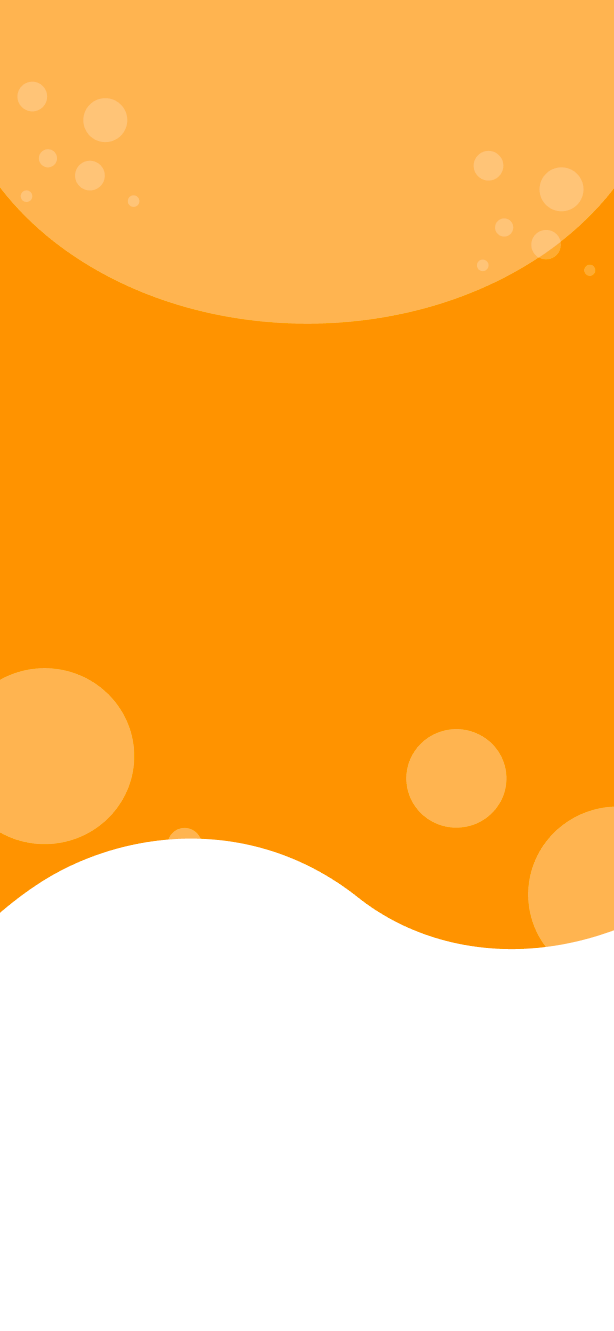
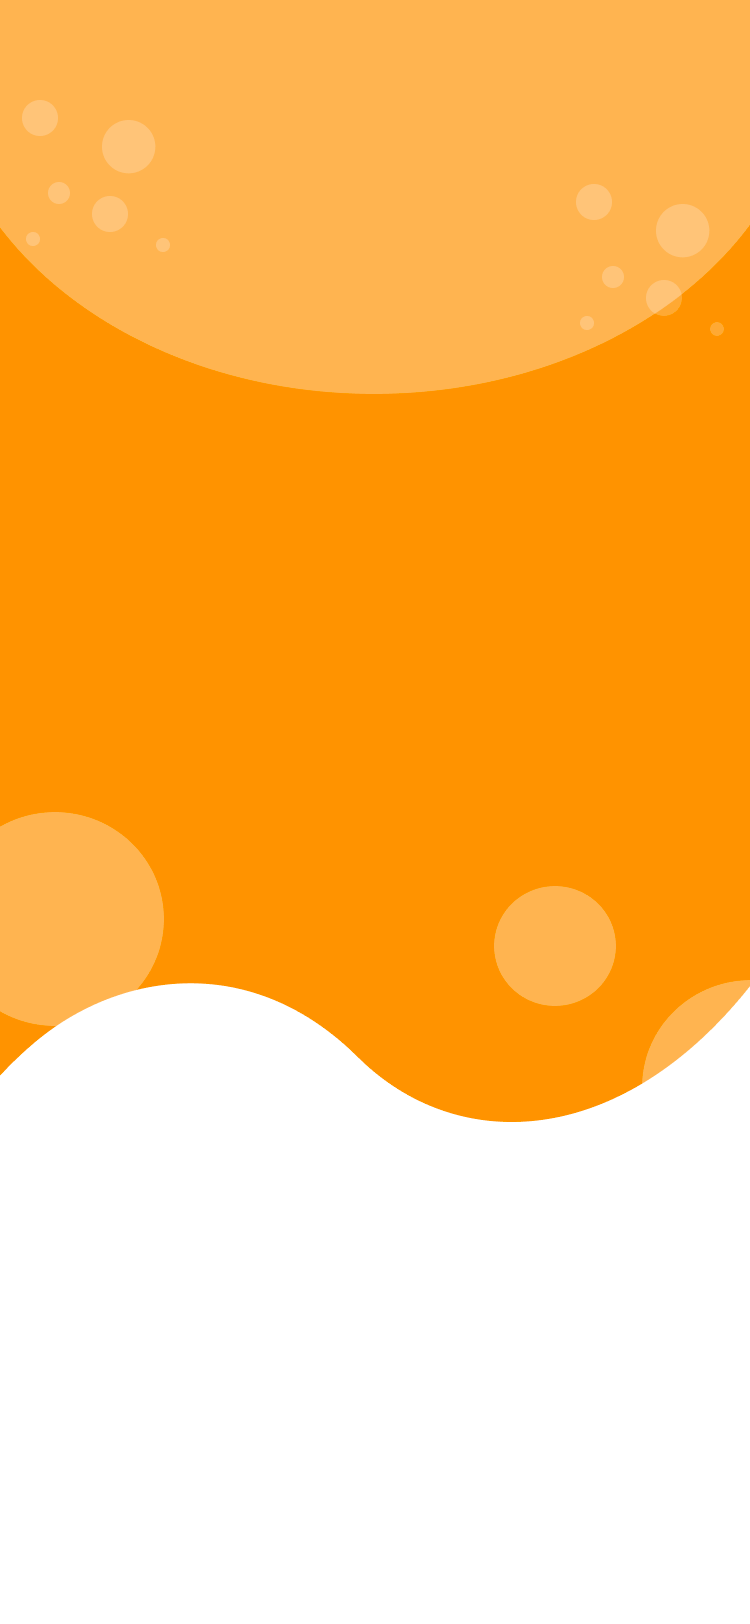
Habillage register screen OK

diff --git a/screens/RegisterScreen.js b/screens/RegisterScreen.js
@@ -7,16 +7,20 @@ import {
   StyleSheet,
   SafeAreaView,
   Image,
+  ImageBackground,
 } from "react-native";
 
 // Import components
 import InputText from "../components/atoms/InputText";
 import InputEmail from "../components/atoms/InputEmail";
 import InputPassword from "../components/atoms/InputPassword";
+import BtForm from "../components/atoms/BtForm";
 
-// Colors:
+// Colors and styles:
 import colors from "../assets/colors";
 const { purplePrimary, grey } = colors;
+import { genStyles } from "../styles/genStyles";
+import { registerScreenStyle } from "../styles/registerScreenStyles";
 
 // Constant pour récupérer las dimensions des devices
 import Constants from "expo-constants";
@@ -91,159 +95,78 @@ export default function RegisterScreen({ url, setUserDatas }) {
 
   return (
     <KeyboardAwareScrollView>
-      <SafeAreaView style={styles.container}>
-        <View style={styles.logoZone}>
-          {/*           <Image
-            source={require("../assets/img/logo.png")}
-            style={styles.logoSign}
-          /> */}
-          <Text style={styles.signTitle}>Inscription </Text>
-          <Text style={styles.subTitle}>
-            Créez votre compte pour pouvoir chatter avec les “babblers”.
-          </Text>
-          <Text style={styles.subTitle}>
-            Vous pourrez modifier votre avatar par la suite.
-          </Text>
-        </View>
-        <View style={styles.formContent}>
-          <Image
-            source={require("../assets/img/avatar-default.jpg")}
-            style={styles.avatar}
-          />
-          <View style={styles.inputContent}>
-            <InputText
-              placeholder="Prénom"
-              value={firstname}
-              setValue={setFirstname}
+      <SafeAreaView style={registerScreenStyle.container}>
+        <ImageBackground
+          source={require("../assets/img/fond-bulles-violet.png")}
+          style={registerScreenStyle.bgImage}
+        >
+          <View style={registerScreenStyle.avatarZone}>
+            <Image
+              source={require("../assets/img/avatar-defaut.png")}
+              style={registerScreenStyle.avatar}
             />
-            <InputText
-              placeholder="Nom"
-              value={lastname}
-              setValue={setLastname}
-            />
-            <InputEmail placeholder="email" value={email} setValue={setEmail} />
-            <InputPassword placeholder="Mot de passe" setValue={setPassword} />
-            <InputPassword
-              placeholder="Confirmez votre mot de passe"
-              setValue={setConfirmPassword}
-            />
-          </View>
-          <View style={styles.buttonsContent}>
-            <Text style={styles.msgAlert}>{alert}</Text>
-            <TouchableOpacity
-              style={styles.button}
-              disabled={false}
-              onPress={handleSubmit}
+            <Text
+              style={[
+                genStyles.basicClearText,
+                genStyles.textAlignCenter,
+                genStyles.textContainerWidth,
+              ]}
             >
-              <Text style={styles.txtButton}>Créer votre compte</Text>
-            </TouchableOpacity>
-            <TouchableOpacity
-              style={styles.txtLink}
-              onPress={() => {
-                navigation.navigate("Login");
-              }}
-            >
-              <Text>Already have an account? Sign in</Text>
-            </TouchableOpacity>
+              Créez votre compte pour pouvoir chatter avec les “babblers”. Vous
+              pourrez modifier votre avatar plus tard.
+            </Text>
           </View>
-        </View>
+          <View style={genStyles.formContent}>
+            <View style={genStyles.inputContent}>
+              <InputText
+                placeholder="Prénom"
+                value={firstname}
+                setValue={setFirstname}
+              />
+              <InputText
+                placeholder="Nom"
+                value={lastname}
+                setValue={setLastname}
+              />
+              <InputEmail
+                placeholder="email"
+                value={email}
+                setValue={setEmail}
+              />
+              <InputPassword
+                placeholder="Mot de passe"
+                setValue={setPassword}
+              />
+              <InputPassword
+                placeholder="Confirmez votre mot de passe"
+                setValue={setConfirmPassword}
+              />
+            </View>
+            <View style={genStyles.buttonsContent}>
+              <Text style={genStyles.msgAlert}>{alert}</Text>
+              <BtForm
+                action={handleSubmit}
+                text={"Créer mon compte"}
+                colorStart={colors.purplePrimary}
+                colorEnd={colors.purpleSecondary}
+              />
+              <TouchableOpacity
+                style={genStyles.genCenter}
+                onPress={() => {
+                  navigation.navigate("Login");
+                }}
+              >
+                <Text style={genStyles.titlePurpleText}>
+                  J'ai déjà un compte !
+                </Text>
+                <Text style={genStyles.basicPurpleText}>
+                  Je me connecte ici.
+                </Text>
+              </TouchableOpacity>
+            </View>
+          </View>
+        </ImageBackground>
       </SafeAreaView>
     </KeyboardAwareScrollView>
   );
 }
-const styles = StyleSheet.create({
-  // *---- GLOBAL ----*
-
-  container: {
-    alignItems: "center",
-    paddingTop: Platform.OS === "android" ? Constants.statusBarHeight : 0,
-  },
-
-  // *---- LOGO ZONE ----*
-  logoZone: {
-    justifyContent: "center",
-    alignItems: "center",
-    marginVertical: 30,
-  },
-
-  logoSign: {
-    height: 100,
-    width: 100,
-  },
-
-  signTitle: {
-    fontSize: 20,
-    fontWeight: "bold",
-    color: grey,
-  },
-  subTitle: {
-    fontSize: 12,
-    color: grey,
-    textAlign: "center",
-  },
-
-  // *---- FORM ----*
-
-  avatar: {
-    height: 100,
-    width: 100,
-    borderRadius: 999,
-  },
-
-  formContent: {
-    // backgroundColor: "purple",
-    width: "80%",
-    alignItems: "center",
-    justifyContent: "space-between",
-    flex: 1,
-  },
-
-  inputContent: {
-    alignItems: "center",
-    width: "100%",
-  },
-
-  input: {
-    width: "100%",
-    height: 50,
-    // backgroundColor: "blue",
-    borderBottomColor: purplePrimary,
-    borderBottomWidth: 1,
-  },
-
-  inputArea: {
-    height: 100,
-    width: "100%",
-    borderColor: purplePrimary,
-    borderWidth: 1,
-    marginVertical: 10,
-    padding: 10,
-    textAlignVertical: "top",
-  },
-
-  buttonsContent: {
-    justifyContent: "center",
-    alignItems: "center",
-  },
-
-  button: {
-    borderColor: purplePrimary,
-    borderRadius: 30,
-    borderWidth: 2,
-    justifyContent: "center",
-    alignItems: "center",
-    height: 60,
-    width: 200,
-    marginVertical: 20,
-  },
-
-  txtButton: {
-    color: grey,
-    fontSize: 20,
-    fontWeight: "bold",
-  },
-
-  msgAlert: {
-    color: purplePrimary,
-  },
-});

diff --git a/screens/LoginScreen.js b/screens/LoginScreen.js
@@ -127,16 +127,23 @@ export default function LoginScreen({
             source={require("../assets/img/emo-violet-01.png")}
             style={loginScreenStyle.emoRegister}
           />
-          <Text style={genStyles.titlePurpleText}>Pas encore inscrit ?</Text>
-          <Text style={genStyles.basicPurpleText}>
-            Créez votre compte Babble et chattez avec vos amis !
-          </Text>
-          <BtForm
-            action={() => navigation.navigate("Register")}
-            text={"S'inscrire"}
-            colorStart={colors.purplePrimary}
-            colorEnd={colors.purpleSecondary}
-          />
+          <TouchableOpacity
+            style={genStyles.genCenter}
+            onPress={() => {
+              navigation.navigate("Register");
+            }}
+          >
+            <Text style={genStyles.titlePurpleText}>Pas encore inscrit ?</Text>
+            <Text
+              style={[
+                genStyles.basicPurpleText,
+                genStyles.textContainerWidth,
+                genStyles.textAlignCenter,
+              ]}
+            >
+              Créez votre compte Babble pour chatter avec d'autres babblers.
+            </Text>
+          </TouchableOpacity>
         </ImageBackground>
       </SafeAreaView>
     </KeyboardAwareScrollView>

diff --git a/App.js b/App.js
@@ -96,7 +96,7 @@ export default function App() {
             options={{
               title: "Bienvenue sur",
               headerStyle: {
-                backgroundColor: "#ffb863",
+                backgroundColor: "#feb863",
               },
               headerShadowVisible: false,
               headerTintColor: "#fff",
@@ -115,7 +115,21 @@ export default function App() {
               />
             )}
           </Stack.Screen>
-          <Stack.Screen name="Register">
+          <Stack.Screen
+            name="Register"
+            options={{
+              title: "Inscription",
+              headerStyle: {
+                backgroundColor: "#b182fa",
+              },
+              headerShadowVisible: false,
+              headerTintColor: "#fff",
+              headerTitleStyle: {
+                fontWeight: "bold",
+              },
+              headerLeft: () => <Text></Text>,
+            }}
+          >
             {() => <RegisterScreen url={url} setUserDatas={setUserDatas} />}
           </Stack.Screen>
         </Stack.Navigator>

diff --git a/styles/registerScreenStyles.js b/styles/registerScreenStyles.js
@@ -1,0 +1,35 @@
+import { StyleSheet, Dimensions } from "react-native";
+import colors from "../assets/colors";
+
+const windowWidth = Dimensions.get("window").width;
+const windowHeight = Dimensions.get("window").height;
+
+export const registerScreenStyle = StyleSheet.create({
+  container: {
+    alignItems: "center",
+  },
+
+  avatarZone: {
+    justifyContent: "center",
+    alignItems: "center",
+  },
+
+  bgImage: {
+    width: windowWidth,
+    height: windowHeight,
+    alignItems: "center",
+  },
+  avatar: {
+    height: 130,
+    width: 130,
+    borderRadius: 999,
+    shadowColor: "#000",
+    shadowOffset: {
+      width: 0,
+      height: 4,
+    },
+    shadowOpacity: 0.3,
+    shadowRadius: 4.65,
+    elevation: 8,
+  },
+});

diff --git a/styles/genStyles.js b/styles/genStyles.js
@@ -1,5 +1,8 @@
-import { StyleSheet } from "react-native";
+import { StyleSheet, Dimensions } from "react-native";
 import colors from "../assets/colors";
+
+const windowWidth = Dimensions.get("window").width;
+const windowHeight = Dimensions.get("window").height;
 
 export const genStyles = StyleSheet.create({
   genCenter: {
@@ -25,6 +28,10 @@ export const genStyles = StyleSheet.create({
     fontSize: 20,
     color: colors.purplePrimary,
     fontWeight: "bold",
+  },
+  textContainerWidth: {
+    marginRight: 10,
+    marginLeft: 10,
   },
 
   // FORMULAIRES

diff --git a/components/atoms/BtForm.js b/components/atoms/BtForm.js
@@ -17,7 +17,9 @@ const BtForm = ({ colorStart, colorEnd, action, text }) => {
           source={require("../../assets/img/shiny.png")}
           style={genStyles.shiny}
         />
-        <Text style={genStyles.buttonsClearText}>{text}</Text>
+        <Text style={[genStyles.buttonsClearText, genStyles.textAlignCenter]}>
+          {text}
+        </Text>
       </LinearGradient>
     </TouchableOpacity>
   );
